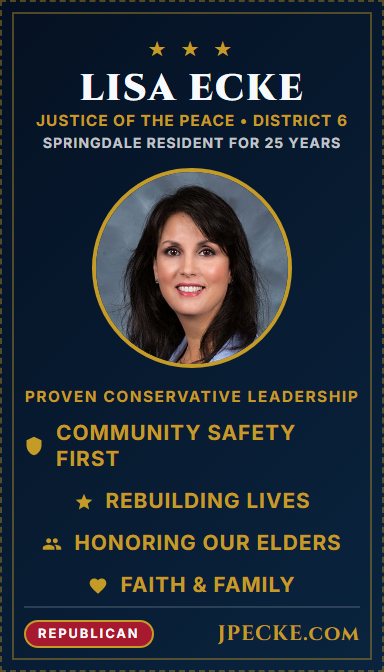
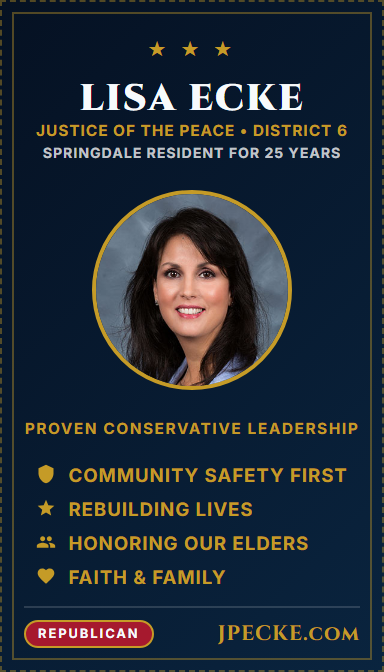
Fix vertical business card spacing and regenerate PNG

Changed region(s): [[0.0625, 0.0938, 0.9375, 0.9062]]

diff --git a/print/print.css b/print/print.css
@@ -1087,9 +1087,10 @@ body {
 .vertical-bullets {
     display: flex;
     flex-direction: column;
-    gap: 8px;
-    width: 100%;
-    align-items: center;
+    gap: 6px;
+    width: auto;
+    margin: 0 auto;
+    align-items: flex-start;
     z-index: 6;
 }
 
@@ -1107,11 +1108,12 @@ body {
 }
 
 .vertical-bullet-item h3 {
-    font-size: 0.65rem;
+    font-size: 0.58rem;
     font-weight: 800;
     color: var(--accent-gold);
     text-transform: uppercase;
     letter-spacing: 0.5px;
+    white-space: nowrap;
 }
 
 .vertical-footer {
